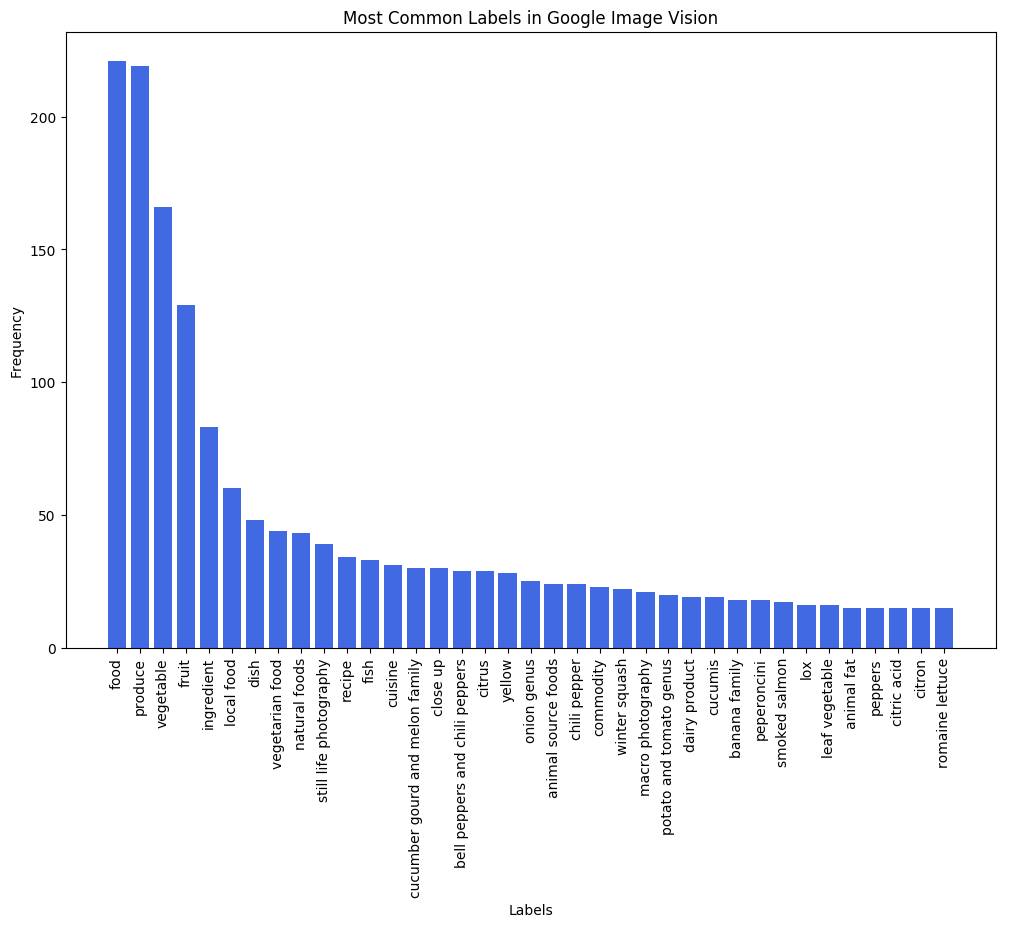
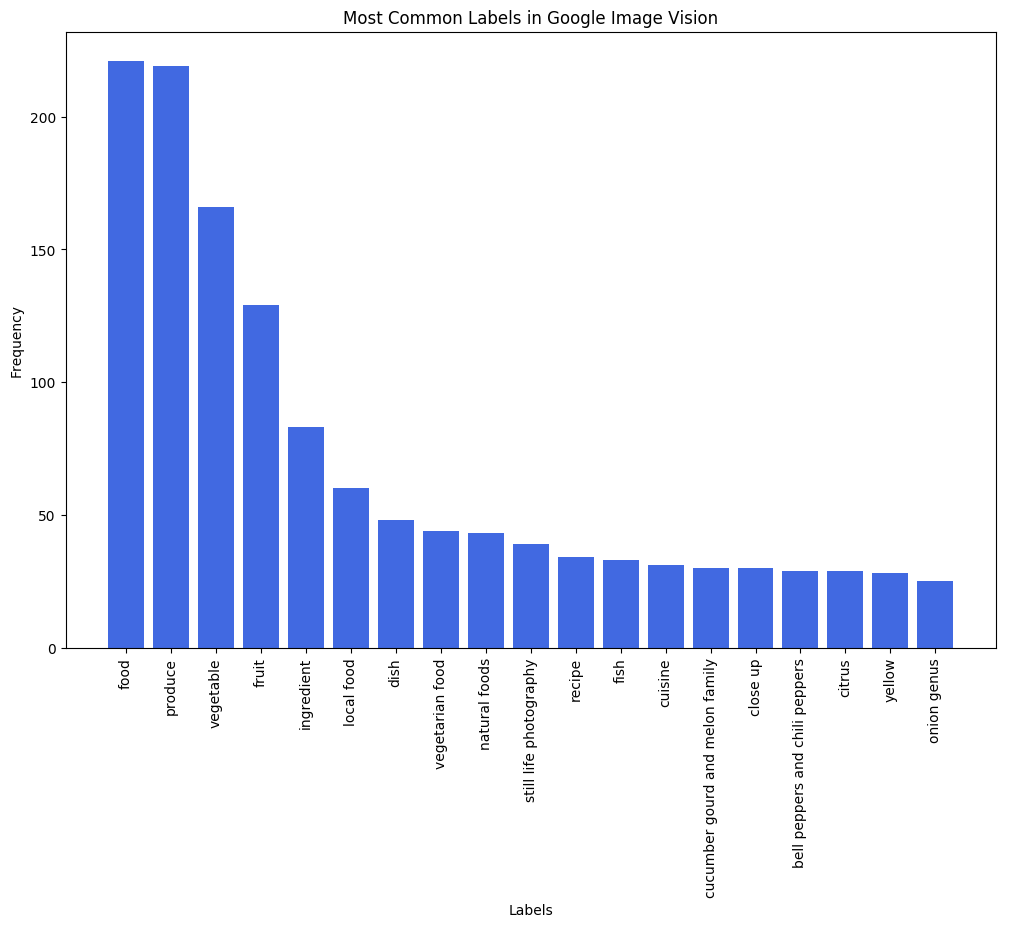
Added list of most frequent words in google and amazon services

Changed region(s): [[0.0922, 0.0604, 0.9524, 0.9666]]

diff --git a/Image Recognition/mfgoogle.py b/Image Recognition/mfgoogle.py
@@ -1,0 +1,2 @@
+entire_google_data = ['fruit', 'produce', 'mango', 'food', 'banana family', 'banana', 'local food', 'natural foods', 'mcintosh', 'peach', 'diet food', 'still life photography', 'still life', 'vegetable', 'granny smith', 'plant', 'green', 'ingredient', 'superfood', 'cucumber gourd and melon family', 'melon', 'gherkin', 'winter melon', 'cucumber', 'gourd order', 'close up', 'winter squash', 'dish', 'vegetarian food', 'rock', 'organism', 'yellow', 'cooking plantain', 'saba banana', 'macro photography', 'orange', 'sky', 'product design', 'peel', 'smoked salmon', 'baby carrot', 'mirepoix', 'garnish', 'frankfurter würstchen', 'recipe', 'knackwurst', 'bologna sausage', 'vienna sausage', 'cervelat', 'bockwurst', 'butternut squash', 'finger', 'flavor', 'sausage', 'breakfast sausage', 'salmon', 'lox', 'gruyère cheese', 'parmigiano reggiano', 'processed cheese', 'dairy product', 'cheddar cheese', 'montasio', 'grana padano', 'pecorino romano', 'limburger cheese', 'beyaz peynir', 'dessert', 'frozen dessert', 'brie', 'cheesecake', 'baking', 'sweetness', 'blue cheese', 'material', 'table sugar', 'sponge cake', 'cream cheese', 'cornbread', 'gorgonzola', 'batter', 'blue cheese dressing', 'white cut chicken', 'turkey meat', 'chicken breast', 'animal fat', 'animal source foods', 'meat', 'fried food', 'chicken meat', 'hendl', 'duck meat', 'roasting', 'cutlery', 'back bacon', 'ham', 'cuisine', 'bayonne ham', 'fish slice', 'flesh', 'prosciutto', 'gammon', 'nail', 'hand', 'veal', 'pork', 'fish', 'turkey ham', 'product', 'mortadella', 'spoon', 'chili pepper', 'serrano pepper', "bird's eye chili", 'cayenne pepper', 'bell peppers and chili peppers', 'chile de árbol', 'peperoncini', 'tabasco pepper', 'malagueta pepper', 'piquillo pepper', 'peppers', 'paprika', 'wheel', 'cookware and bakeware', 'tire', 'automotive tire', 'jalapeño', 'carrot', 'red', 'praline', 'fudge', 'confectionery', 'bonbon', 'toffee', 'chocolate syrup', 'chocolate bar', 'turrón', 'chocolate truffle', 'dominostein', 'chocolate brownie', 'sachertorte', 'chocolatier', 'bossche bol', 'mozartkugel', 'snack cake', 'wafer', 'white chocolate', 'chocolate coated peanut', 'nut', 'cocoa bean', 'nuts & seeds', 'commodity', 'bean', 'lime', 'cucumis', 'zucchini', 'summer squash', 'pepino', 'leek', 'salted duck egg', 'boiled egg', 'soy egg', 'egg white', 'purple', 'snout', 'prune', 'beetroot', 'beet', 'side dish', 'darkness', 'light', 'lighting', 'computer wallpaper', 'pasilla', 'powder', 'dough', 'mason jar', 'drinkware', 'wheat flour', 'mixture', 'rice flour', 'sea salt', 'fleur de sel', 'salt', 'powdered sugar', 'ricotta', 'masa', 'metal', 'onion genus', 'onion', 'elephant garlic', 'shallot', 'yellow onion', 'petal', 'flower', 'fauna', 'fish products', 'seafood', 'shishamo', 'milkfish', 'sardine', 'kipper', 'stockfish', 'capelin', 'oily fish', 'mouth', 'jaw', 'salted fish', 'anchovy', 'mackerel', 'barramundi', 'herring', 'bass', 'cod', 'perch', 'drink', 'liqueur', 'caramel color', 'fruit preserve', 'condiment', 'canning', 'food preservation', 'pickling', 'pickled foods', 'caramel', 'cajeta', 'confiture de lait', 'sauces', 'honeycomb', 'pattern', 'glass bottle', 'relish', 'kiwifruit', 'citric acid', 'citrus', 'citron', 'sweet lemon', 'yuzu', 'rangpur', 'tangelo', 'bitter orange', 'meyer lemon', 'lemon lime', 'leaf vegetable', 'salad', 'caesar salad', 'romaine lettuce', 'spinach', 'chard', 'leaf', 'red leaf lettuce', 'spring greens', 'herb', 'cabbage', 'savoy cabbage', 'ivy', 'annual plant', 'collard greens', 'rapini', 'cruciferous vegetables', 'pink', 'red onion', 'garlic', 'circle', 'magenta', 'calabaza', 'lemon', 'clementine', 'tangerine', 'valencia orange', 'mandarin orange', 'dishware', 'plate', 'tableware', 'penne', 'al dente', 'european food', 'italian food', 'pasta', 'pasta pomodoro', 'taglierini', 'macaroni', 'staple food', 'pici', 'cavatappi', 'noodle', 'chinese noodles', 'fried noodles', 'chow mein', 'capellini', 'spaghetti', 'carbonara', 'wood', 'line', 'texture', 'floor', 'flooring', 'pollen', 'fusilli', 'rotini', 'whole grain', 'food grain', 'rice', 'cereal germ', 'basmati', 'grain', 'rice cereal', 'apple', 'asian pear', 'fruit tree', 'key lime', 'root vegetable', 'bell pepper', 'pimiento', 'red bell pepper', 'nightshade family', 'plum tomato', 'tomato', 'potato and tomato genus', 'capsicum', 'yellow pepper', 'jade', 'yukon gold potato', 'russet burbank potato', 'tuber', 'fingerling potato', 'irish potato candy', 'junk food', 'potato wedges', 'home fries', 'cucurbita', 'squash', 'gourd', 'jack o lantern', 'halloween', 'white rice', 'steamed rice', 'glutinous rice', 'jasmine rice', 'frost', 'comfort food', 'saffron rice', 'pilaf', 'biryani', 'hyderabadi biriyani', 'kabsa', 'black and white', 'monochrome photography', 'monochrome', 'taiyaki', 'asian food', 'salmon like fish', 'red meat', 'sashimi', 'sodium chloride', 'cup', 'buttermilk', 'serveware', 'hemp milk', 'milk', 'mug', 'kosher salt', 'chemical compound', 'flour', 'filmjölk', 'finger food', 'panko', 'farofa', 'okara', 'cherry', 'food spoilage', 'bush tomato', 'vehicle', 'knife', 'cold weapon', 'kitchen knife', 'weapon', 'tool', 'melee weapon', 'blade', 'plant stem']
+most_frequent_google = ['food', 'produce', 'vegetable', 'fruit', 'ingredient', 'local food', 'dish', 'vegetarian food', 'natural foods', 'still life photography', 'recipe', 'fish', 'cuisine', 'cucumber gourd and melon family', 'close up', 'bell peppers and chili peppers', 'citrus', 'yellow', 'onion genus']

diff --git a/Image Recognition/mfamazon.py b/Image Recognition/mfamazon.py
@@ -1,0 +1,2 @@
+entire_amazon_data = ['Bowl', 'Flora', 'Food', 'Fruit', 'Plant', 'Produce', 'Leaf', 'Maple Leaf', 'Weed', 'Blossom', 'Flower', 'Vegetable', 'Pear', 'Cherry', 'Luggage', 'Suitcase', 'Citrus Fruit', 'Grapefruit', 'Cucumber', 'Lamp', 'Lampshade', 'Dish', 'Meal', 'Bean', 'Jar', 'Potted Plant', 'Pottery', 'Vase', 'Clothing', 'Footwear', 'Pepper', 'Tomato', 'Plate', 'Finger', 'Mango', 'Ketchup', 'Seasoning', 'Seafood', 'Confectionery', 'Butter', 'Brie', 'Chocolate', 'Dessert', 'Fudge', 'Sweets', 'Cake', 'Cup', 'Cream', 'Creme', 'Saucer', 'Fungus', 'Mushroom', 'Caramel', 'Custard', 'Bread', 'Cornbread', 'Paper', 'Beverage', 'Coffee Cup', 'Drink', 'Juice', 'Dumpling', 'Pasta', 'Ravioli', 'Herbs', 'Parsley', 'Garlic', 'Croissant', 'Gravy', 'Hand', 'Soap', 'Ham', 'Bacon', 'Sushi', 'Icing', 'Aluminium', 'Can', 'Canned Goods', 'Tin', 'Bell Pepper', 'Pea', 'Biscuit', 'Cookie', 'Gingerbread', 'Flagstone', 'Cocoa', 'Lumber', 'Human', 'People', 'Person', 'Brick', 'Art', 'Roof', 'Tile Roof', 'Brownie', 'Spa', 'Wood', 'Building', 'City', 'High Rise', 'Town', 'Chair', 'Furniture', 'Cosmetics', 'Crystal', 'Toe', 'Cabbage', 'Pickle', 'Relish', 'Squash', 'Zucchini', 'Leek', 'Cutlery', 'Spoon', 'Box', 'Cardboard', 'Carton', 'Text', 'Ping Pong', 'Sport', 'Sports', 'Lingerie', 'Panties', 'Underwear', 'Plum', 'Apple', 'Ball', 'Bowling', 'Bowling Ball', 'Leisure Activities', 'Fries', 'Asparagus', 'Astronomy', 'Nebula', 'Outer Space', 'Space', 'Rock', 'Okra', 'Lilac', 'Cooker', 'Slow Cooker', 'Pita', 'Dough', 'Hat', 'Sun Hat', 'Cap', 'Grain', 'Rice', 'Book', 'Powder', 'Breakfast', 'Oatmeal', 'Onion', 'Animal', 'Invertebrate', 'Snail', 'Petal', 'Accessories', 'Fish', 'Mullet Fish', 'Sea Life', 'Herring', 'Sardine', 'Beak', 'Bird', 'Coho', 'Cod', 'Pike', 'Driftwood', 'Swordfish', 'Eel', 'Perch', 'Bonito', 'Tuna', 'Alcohol', 'Beer', 'Beer Glass', 'Glass', 'Cocktail', 'Bottle', 'Jam', 'File Binder', 'File Folder', 'Tea', 'Grass', 'Melon', 'Acorn', 'Nut', 'Seed', 'Label', 'Badge', 'Emblem', 'Logo', 'Trademark', 'Jackfruit', 'Brooch', 'Jewelry', 'Ornament', 'Lime', 'Salad', 'Spinach', 'Planter', 'Rhubarb', 'Vine', 'Oak', 'Dahlia', 'Hippie', 'Poppy', 'Flower Arrangement', 'Lemon', 'Apricot', 'Home Decor', 'Linen', 'Tablecloth', 'Macaroni', 'Bamboo', 'Bamboo Shoot', 'Tortellini', 'Noodle', 'Spaghetti', 'Path', 'Pavement', 'Sidewalk', 'Walkway', 'Canopy', 'Umbrella', 'Computer', 'Electronics', 'Laptop', 'Pc', 'Road', 'Corn', 'Pollen', 'Anther', 'Vermicelli', 'Agaric', 'Quince', 'Pomelo', 'Papaya', 'Potato', 'Persimmon', 'Bun', 'Bagel', 'Pebble', 'Turnip', 'French Toast', 'Toast', 'Carrot', 'Orange', 'Snack', 'Countryside', 'Harvest', 'Nature', 'Wool', 'Couch', 'Eating', 'Hardwood', 'Bread Loaf', 'French Loaf', 'Cushion', 'Ice Pop', 'Measuring Cup', 'Cooking Batter', 'Loudspeaker', 'Speaker', 'Shaker', 'Pot', 'Fried Chicken', 'Bead', 'Candy', 'Jelly', 'Watermelon', 'Sphere', 'Appliance', 'Electrical Device', 'Golf', 'Golf Club', 'Cd Player', 'Avocado', 'Green Snake']
+most_frequent_amazon = ['Food', 'Flora', 'Plant', 'Produce', 'Vegetable', 'Fruit', 'Citrus Fruit', 'Grapefruit', 'Bowl', 'Bell Pepper', 'Meal', 'Dessert', 'Squash', 'Grain', 'Pepper', 'Cucumber', 'Beverage', 'Animal', 'Fudge', 'Drink', 'Bread', 'Pasta', 'Fish']

diff --git a/Image Recognition/Acc_results.py b/Image Recognition/Acc_results.py
@@ -14,6 +14,7 @@ import numpy as np
 
 from operator import itemgetter
 from collections import OrderedDict
+from mfgoogle import most_frequent_google
 
 # -- FUNCTION DEFINITIONS -- #
 
@@ -84,7 +85,7 @@ def showing_data(results,wgoogle,wamazon):
     lkgoogle = []
     keys = wgoo_sort.keys()
     for key in keys:
-        if wgoo_sort[key] >= 15:
+        if wgoo_sort[key] >= 25:
             lkgoogle.append(key)
             lvgoogle.append(wgoo_sort[key])
     fig3 = plt.figure(figsize=(12,8))
@@ -113,6 +114,21 @@ def showing_data(results,wgoogle,wamazon):
     plt.xticks(range(len(lkamazon)),lkamazon,rotation=90)
     plt.savefig('Out/Amazon_Labels.png',bbox_inches='tight')
     plt.close(fig4)
+
+    # -- CREATING PYTHON FILES WITH LISTS -- #
+    google_file = 'mfgoogle.py'
+    amazon_file = 'mfamazon.py'
+    with open(google_file,'w') as file:
+        file.write('entire_google_data = {}\n'.format(list(wgoogle.keys())))
+        file.write('most_frequent_google = {}\n'.format(lkgoogle))
+    file.close()
+    with open(amazon_file,'w') as file:
+        file.write('entire_amazon_data = {}\n'.format(list(wamazon.keys())))
+        file.write('most_frequent_amazon = {}\n'.format(lkamazon))
+    file.close()
+
+    for i in most_frequent_google:
+        print(i)
 
     # -- PRINTING PUNTUATION -- #
     with open('Out/Results.txt','w') as text_file:
